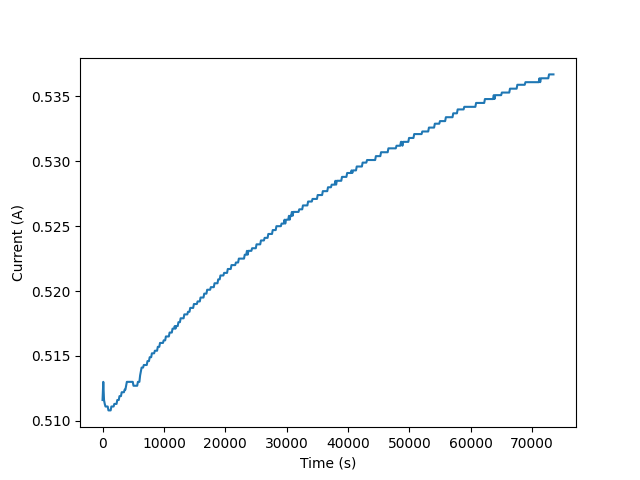
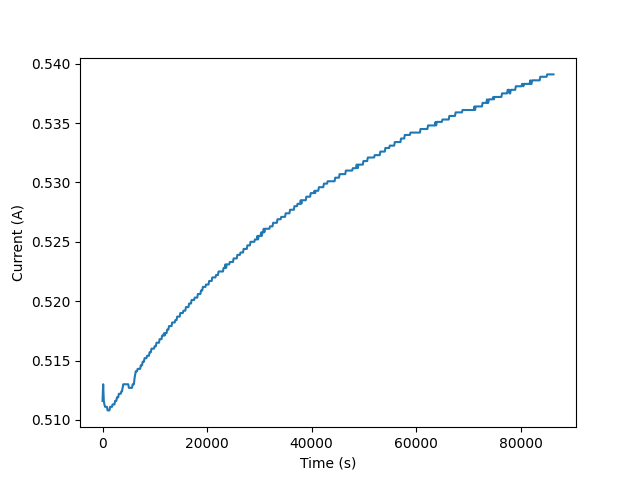
Update data

diff --git a/code/DischargeDataCollector.py b/code/DischargeDataCollector.py
@@ -17,12 +17,12 @@ hour = 60 * min
 day = 24 * hour
 
 # Parameters
-RUN_ID = "2"
+RUN_ID = "2.1"
 COM_PORT = "COM4"
 CW_POWER = 6 # CW power in W
-MEASURING_TIME = 24 * hour # Measuring time in s
+MEASURING_TIME = 48 * hour # Measuring time in s
 MEASURING_INTERVAL = 2 * min # Measuring interval in s
-NUMBER_OF_TIMES_TO_PLOT = 20 # Amount of times to do plotting during the measure interval
+NUMBER_OF_TIMES_TO_PLOT = 40 # Amount of times to do plotting during the measure interval
 
 def byte_to_float(b):
     return float(b.decode())
